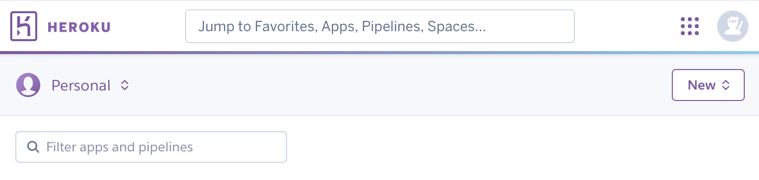
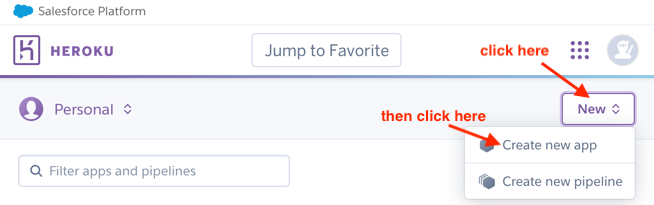
finish README

diff --git a/README.md b/README.md
@@ -59,9 +59,34 @@
 
 
 ## Deploy to Heroku
-  *  signup or login to your [Heroku](https://id.heroku.com/login) account. After successfully logged in, you will see this:
-    <img src="app/assets/images/heroku1.png" width=400px>
-  * 
+
+  * Signup or login to your [Heroku](https://id.heroku.com/login) account. 
+  * Create a new app on heroku. 
+    * Open [this page](https://dashboard.heroku.com/apps) or paste this in your browser: https://dashboard.heroku.com/apps, then you will see the following page: 
+    
+        <img width="600" alt="image" src="app/assets/images/heroku1.png">
+    
+    * Click the button "New" at the top right corner and then click "Create new app". Then you will see this:
+
+        <img width="600" alt="image" src="app/assets/images/heroku2.png">
+      
+    * Fill in the App name and click "Create app" to create your app. Note that the App name will be part of the deployment link. In our team, we used "evg-library" for the App name, so we got "https://evg-library-8a920fa9c3cb.herokuapp.com/" for the deployed app.
+  * Add Postgres to your app. On the dashboard page (https://dashboard.heroku.com/apps), you will see the created app. Click that app to open the setting page. Then click "Resources" and search "postgres" in the "Add-ons" field. Choose a plan according to your needs. We used the Mini plan for the course project.  
+    
+    <img width="600" alt="image" src="app/assets/images/heroku3.png">
+
+  * Download and install the Heroku CLI to your local environment by following the instructions here: https://devcenter.heroku.com/articles/heroku-cli
+  
+  * If you haven't already, run `git clone https://github.com/CSCE-606-Event360/Spring2024EventNXT.git` and `cd LIVE`.
+
+    Under the project folder `LIVE/`, run the following commands to deploy the repo to Heroku.
+    * run `heroku login` to connect to heroku. 
+    * run `heroku git:remote -a [app-name]`, replace the [app-name] with your App name.
+    * run `git push heroku main` to deploy the project. The link to the deployed app will appear in the terminal. 
+    You can also get it on Heroku website. 
+    
+      But you will see errors if you open the link at this point because we haven't set up the database.
+    * run `heroku run rails db:migrate db:seed` to set up the database. Now you can visit the link you got in the last step.
 
 
 ## How to contact us:
